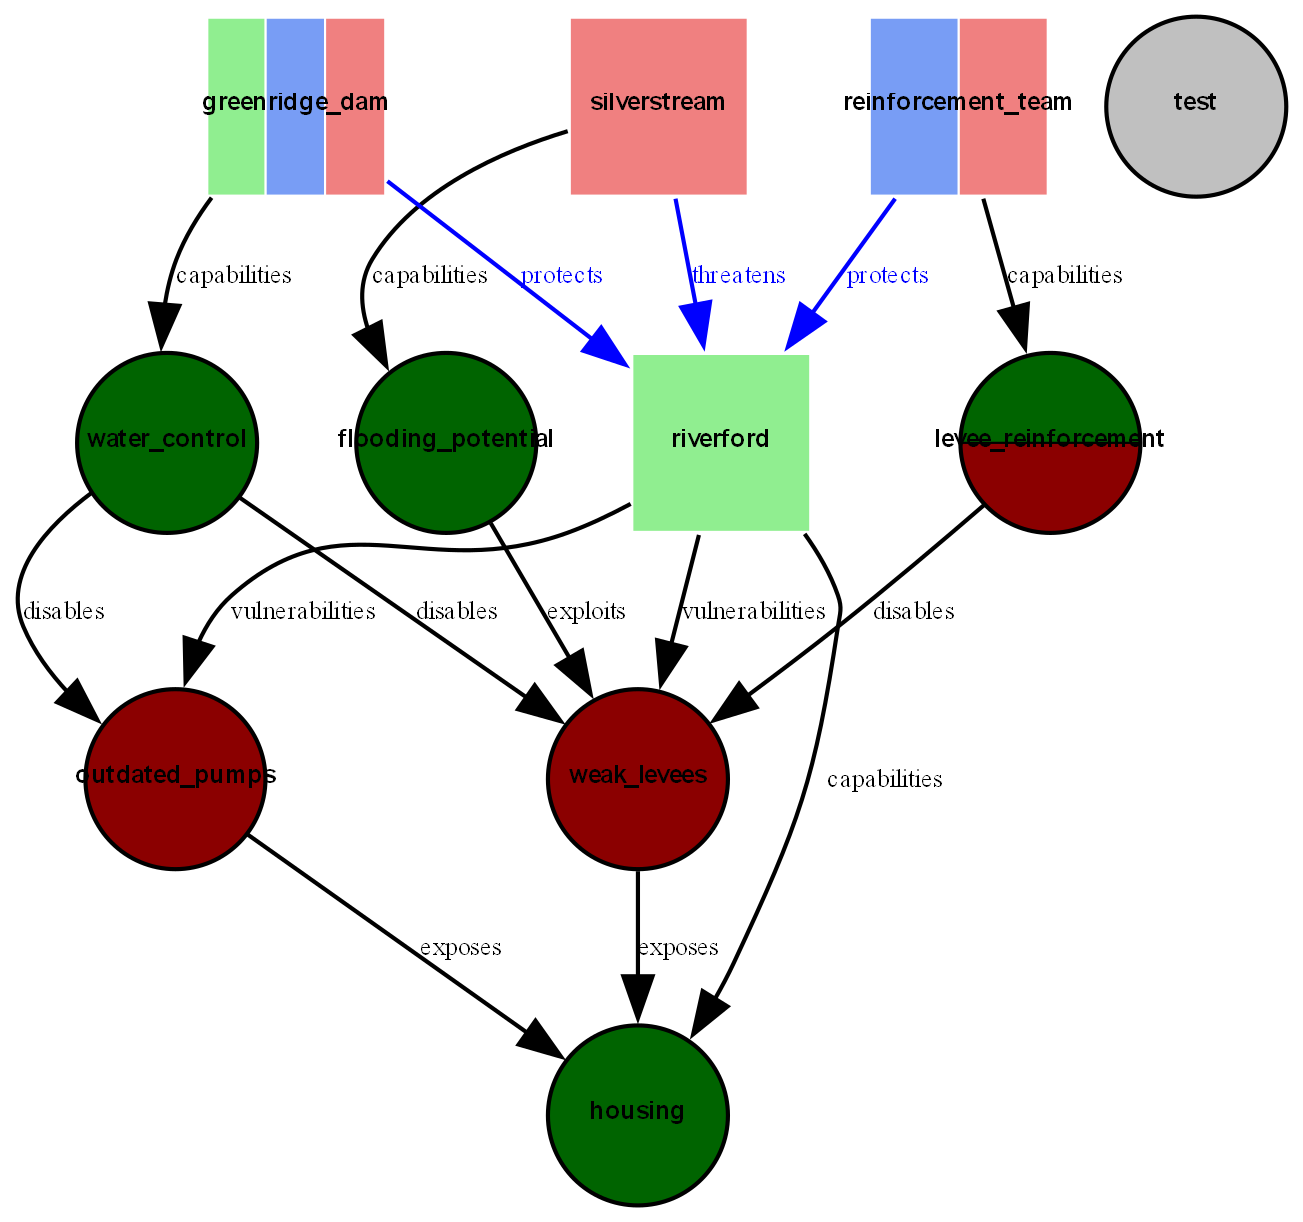
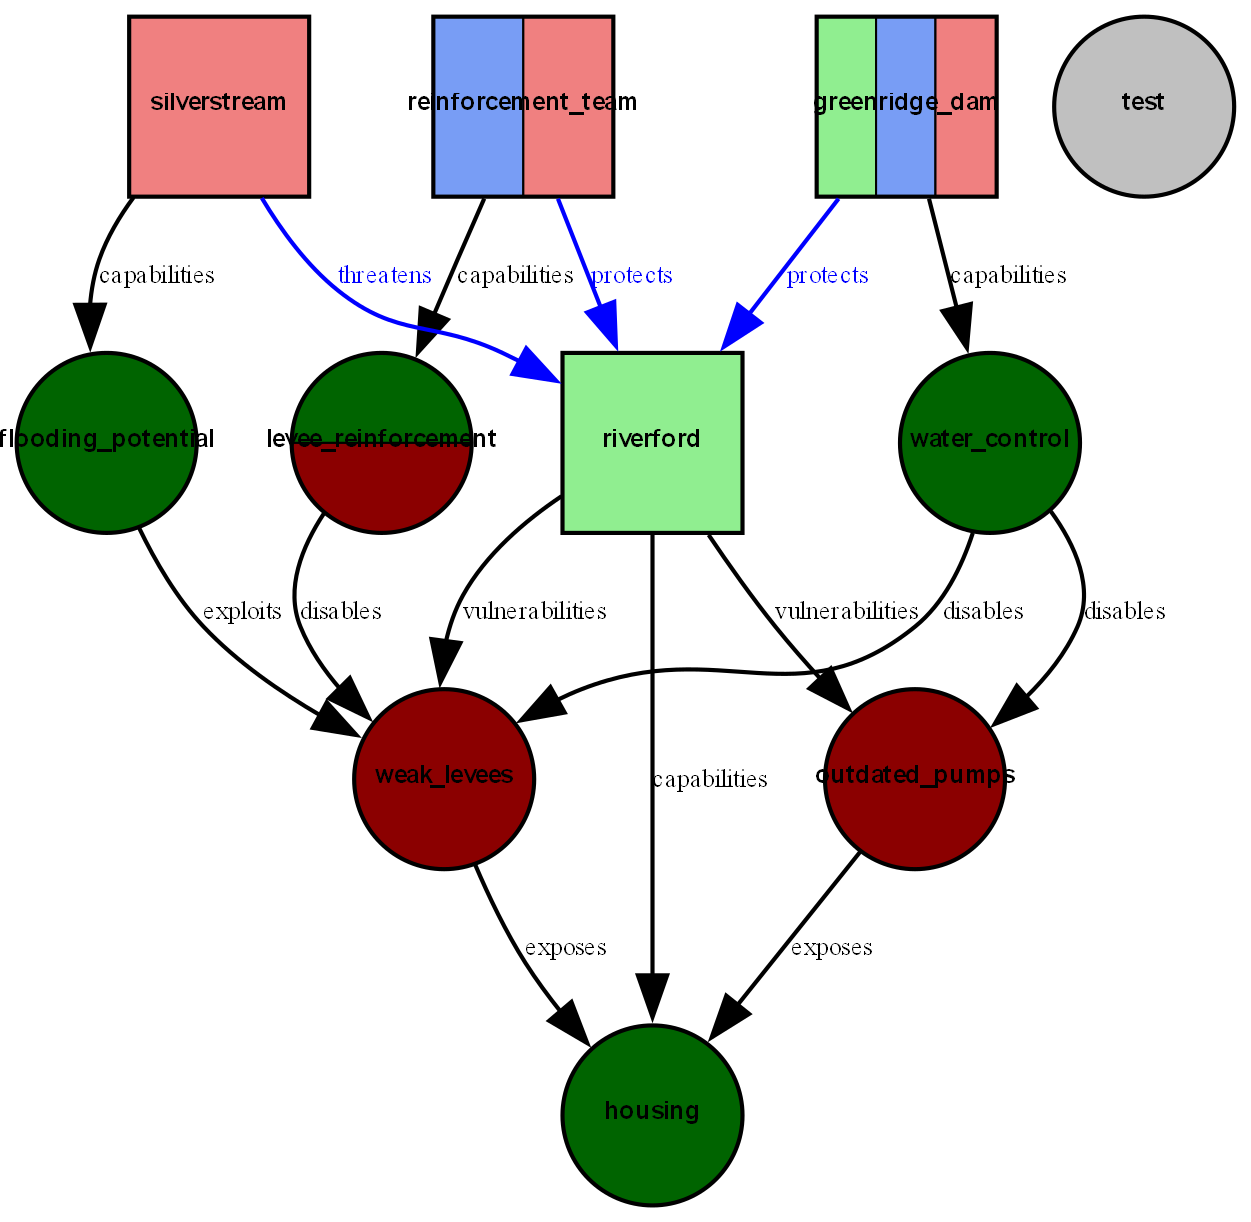
Added borders to all elements.

diff --git a/laderr_engine/laderr_lib/services/visualization.py b/laderr_engine/laderr_lib/services/visualization.py
@@ -104,7 +104,7 @@ class GraphCreator:
             is_disabled = (subject, URIRef("https://w3id.org/laderr#state"), disabled_state) in laderr_graph
 
             if "Resilience" in instance_types:
-                style = {"shape": "ellipse", "color": "white", "style": "filled", "fillcolor": "orange"}
+                style = {"shape": "ellipse", "color": "black", "style": "filled", "fillcolor": "orange"}
             elif any(item in instance_types for item in ["Disposition", "Capability", "Vulnerability"]):
                 style = GraphCreator._get_disposition_style(instance_types, is_disabled)
             elif "Entity" in instance_types:
@@ -176,7 +176,7 @@ class GraphCreator:
         :return: A dictionary containing Graphviz node style attributes.
         :rtype: dict
         """
-        node_styles = {"Entity": {"shape": "square", "color": "white", "style": "filled"}, "Asset": {"color": "lightgreen"},
+        node_styles = {"Entity": {"shape": "square", "color": "black", "style": "filled"}, "Asset": {"color": "lightgreen"},
                        "Control": {"color": "#789df5"}, "Threat": {"color": "lightcoral"}}
 
         base_style = node_styles["Entity"]
